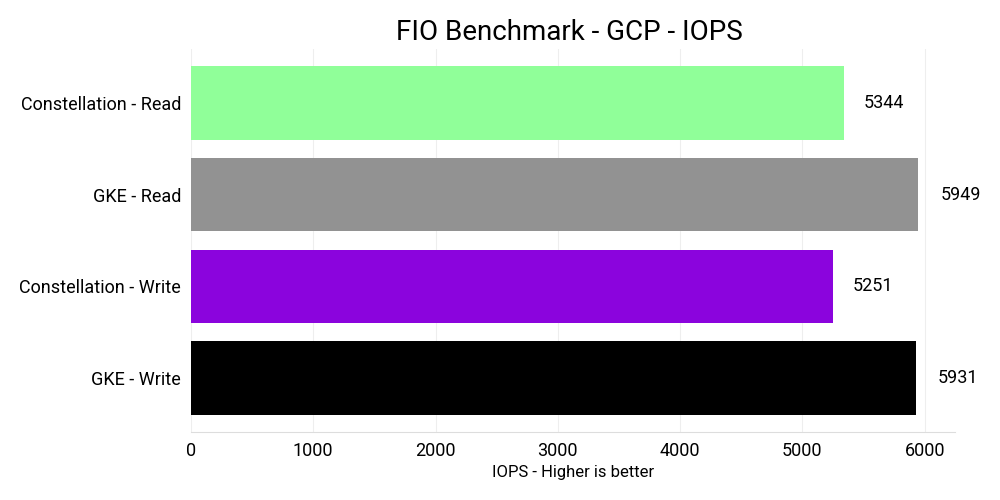
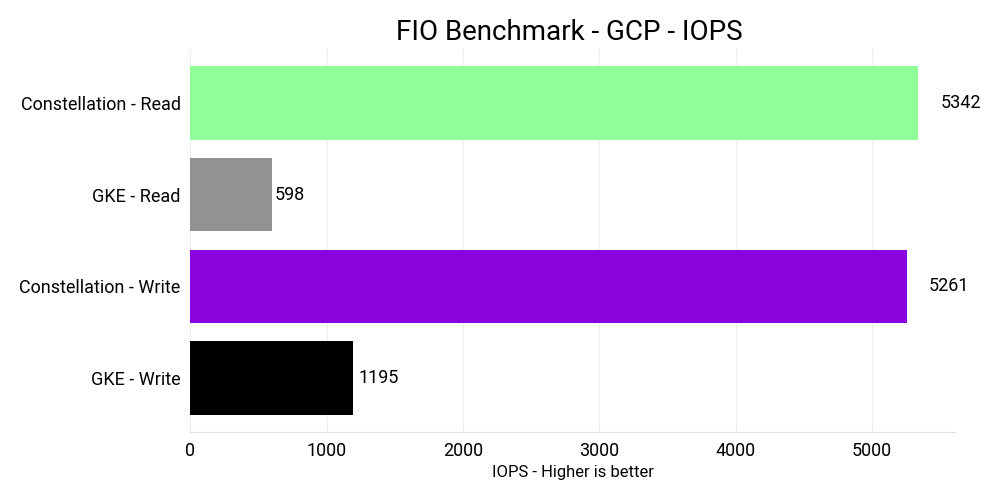
update benchmark docs

diff --git a/docs/docs/overview/performance/io.md b/docs/docs/overview/performance/io.md
@@ -1,15 +1,23 @@
 # I/O performance benchmarks
 
-To assess the overall performance of Constellation, this benchmark evaluates Constellation v2.6.0 in terms of storage I/O using [`fio`](https://fio.readthedocs.io/en/latest/fio_doc.html) and network performance using the [Kubernetes Network Benchmark](https://github.com/InfraBuilder/k8s-bench-suite#knb--kubernetes-network-be).
+To assess the overall performance of Constellation, this benchmark evaluates Constellation v2.14.0 in terms of storage I/O using [`fio`](https://fio.readthedocs.io/en/latest/fio_doc.html) and network performance using the [Kubernetes Network Benchmark](https://github.com/InfraBuilder/k8s-bench-suite#knb--kubernetes-network-be).
 
-This benchmark tested Constellation on Azure and GCP and compared the results against the managed Kubernetes offerings AKS and GKE.
+This benchmark tested Constellation on AWS, Azure, and GCP and compared the results against the managed Kubernetes offerings EKS, AKS, and GKE.
 
 ## Configurations
 
 ### Constellation
 
-The benchmark was conducted with Constellation v2.6.0, Kubernetes v1.25.7, and Cilium v1.12.
+The benchmark was conducted with Constellation v2.14.0, Kubernetes v1.27.8, and Cilium 1.15-pre with our custom [node-to-node strict mode](https://github.com/edgelesssys/constellation/pull/2462).
 It ran on the following infrastructure configurations.
+
+Constellation on AWS:
+
+- Nodes: 3 (1 Control-plane, 2 Worker)
+- Machines: `m6a.xlarge`: 3rd Generation AMD EPYC 7763v (Milan) processor with 4 Cores, 16 GiB memory
+- CVM: `true`
+- Region: `us-east-2`
+- Zone: `us-east-2a`
 
 Constellation on Azure:
 
@@ -26,12 +34,25 @@ Constellation on GCP:
 - CVM: `true`
 - Zone: `europe-west3-b`
 
+### EKS
+
+On EKS, the benchmark used Kubernetes `v1.27.8` and `AL2_x86_64` nodes with version `1.27.7-20231201`.
+AKS ran with the [`Amazon VPC Container Network Interface (CNI)`](https://github.com/aws/amazon-vpc-cni-k8s) CNI and the [default CSI driver](https://docs.aws.amazon.com/de_de/eks/latest/userguide/ebs-csi.html) for Azure Disk.
+
+The following infrastructure configuration was used:
+
+- Nodes: 2 (2 Worker)
+- Machines: `m6a.xlarge`: 3rd Generation AMD EPYC 7763v (Milan) processor with 4 Cores, 16 GiB memory
+- CVM: `false`
+- Region: `us-east-2`
+- Zone: `us-east-2a`
+
 ### AKS
 
 On AKS, the benchmark used Kubernetes `v1.24.9` and nodes with version `AKSUbuntu-1804gen2containerd-2023.02.15`.
 AKS ran with the [`kubenet`](https://learn.microsoft.com/en-us/azure/aks/concepts-network#kubenet-basic-networking) CNI and the [default CSI driver](https://learn.microsoft.com/en-us/azure/aks/azure-disk-csi) for Azure Disk.
 
-The following infrastructure configurations was used:
+The following infrastructure configuration was used:
 
 - Nodes: 2 (2 Worker)
 - Machines: `D4as_v5`: 3rd Generation AMD EPYC 7763v (Milan) processor with 4 Cores, 16 GiB memory
@@ -41,15 +62,16 @@ The following infrastructure configurations was used:
 
 ### GKE
 
-On GKE, the benchmark used Kubernetes `v1.24.9` and nodes with version `1.24.9-gke.3200`.
+On GKE, the benchmark used Kubernetes `v1.27.3` and nodes with version `1.27.3-gke.100`.
 GKE ran with the [`kubenet`](https://cloud.google.com/kubernetes-engine/docs/concepts/network-overview) CNI and the [default CSI driver](https://cloud.google.com/kubernetes-engine/docs/how-to/persistent-volumes/gce-pd-csi-driver) for Compute Engine persistent disk.
 
-The following infrastructure configurations was used:
+The following infrastructure configuration was used:
 
 - Nodes: 2 (2 Worker)
 - Machines: `n2d-standard-4` 2nd Generation AMD EPYC (Rome) processor with 4 Cores, 16 GiB of memory
 - CVM: `false`
 - Zone: `europe-west3-b`
+
 
 ## Results
 
@@ -58,9 +80,10 @@ The following infrastructure configurations was used:
 This section gives a thorough analysis of the network performance of Constellation, specifically focusing on measuring TCP and UDP bandwidth.
 The benchmark measured the bandwidth of pod-to-pod and pod-to-service connections between two different nodes using [`iperf`](https://iperf.fr/).
 
+EKS and Constellation on AWS had a maximum network bandwidth of [12.5 Gbps](https://docs.aws.amazon.com/AWSEC2/latest/UserGuide/general-purpose-instances.html#general-purpose-network-performance).
 GKE and Constellation on GCP had a maximum network bandwidth of [10 Gbps](https://cloud.google.com/compute/docs/general-purpose-machines#n2d_machineshttps://cloud.google.com/compute/docs/general-purpose-machines#n2d_machines).
-AKS with `Standard_D4as_v5` machines a maximum network bandwidth of [12.5 Gbps](https://learn.microsoft.com/en-us/azure/virtual-machines/dasv5-dadsv5-series#dasv5-series).
-The Confidential VM equivalent `Standard_DC4as_v5` currently  has a network bandwidth of [1.25 Gbps](https://learn.microsoft.com/en-us/azure/virtual-machines/dcasv5-dcadsv5-series#dcasv5-series-products).
+AKS with `Standard_D4as_v5` machines had a maximum network bandwidth of [12.5 Gbps](https://learn.microsoft.com/en-us/azure/virtual-machines/dasv5-dadsv5-series#dasv5-series).
+The Confidential VM equivalent `Standard_DC4as_v5` currently has a network bandwidth of [1.25 Gbps](https://learn.microsoft.com/en-us/azure/virtual-machines/dcasv5-dcadsv5-series#dcasv5-series-products).
 Therefore, to make the test comparable, both AKS and Constellation on Azure were running with `Standard_DC4as_v5` machines and 1.25 Gbps bandwidth.
 
 Constellation on Azure and AKS used an MTU of 1500.
@@ -85,6 +108,9 @@ flowchart LR
     end
     Client ==>|traffic| Server
 ```
+The results for "Pod-to-Pod" on AWS are as follows:
+
+![Network Pod2Pod AWS benchmark graph](../../_media/benchmark_net_p2p_aws.png)
 
 The results for "Pod-to-Pod" on Azure are as follows:
 
@@ -109,6 +135,10 @@ flowchart LR
     Service ==>|traffic| Server
 ```
 
+The results for "Pod-to-Pod" on AWS are as follows:
+
+![Network Pod2SVC AWS benchmark graph](../../_media/benchmark_net_p2svc_aws.png)
+
 The results for "Pod-to-Pod" on Azure are as follows:
 
 ![Network Pod2SVC Azure benchmark graph](../../_media/benchmark_net_p2svc_azure.png)
@@ -117,16 +147,24 @@ The results for "Pod-to-Pod" on GCP are as follows:
 
 ![Network Pod2SVC GCP benchmark graph](../../_media/benchmark_net_p2svc_gcp.png)
 
-In our recent comparison of Constellation on GCP with GKE, Constellation has 58% less TCP bandwidth. However, UDP bandwidth was slightly better with Constellation, thanks to its higher MTU.
+In our recent comparison of Constellation on GCP with GKE, Constellation has 48% less TCP bandwidth. However, UDP bandwidth was slightly better with Constellation, thanks to its higher MTU.
 
 Similarly, when comparing Constellation on Azure with AKS using CVMs, Constellation achieved approximately 10% less TCP and 40% less UDP bandwidth.
 
+On AWS, Constellation has 96% less TCP bandwidth and 97% less UDP bandwidth compared to EKS.
+
 ### Storage I/O
 
-Azure and GCP offer persistent storage for their Kubernetes services AKS and GKE via the Container Storage Interface (CSI). CSI storage in Kubernetes is available via `PersistentVolumes` (PV) and consumed via `PersistentVolumeClaims` (PVC).
-Upon requesting persistent storage through a PVC, GKE and AKS will provision a PV as defined by a default [storage class](https://kubernetes.io/docs/concepts/storage/storage-classes/).
-Constellation provides persistent storage on Azure and GCP [that's encrypted on the CSI layer](../../architecture/encrypted-storage.md).
+AWS, Azure, and GCP offer persistent storage for their Kubernetes services EKS, AKS, and GKE via the Container Storage Interface (CSI). CSI storage in Kubernetes is available via `PersistentVolumes` (PV) and consumed via `PersistentVolumeClaims` (PVC).
+Upon requesting persistent storage through a PVC, EKS, AKS, and GKE will provision a PV as defined by a default [storage class](https://kubernetes.io/docs/concepts/storage/storage-classes/).
+Constellation provides persistent storage on AWS, Azure, and GCP [that's encrypted on the CSI layer](../../architecture/encrypted-storage.md).
 Similarly, upon a PVC request, Constellation will provision a PV via a default storage class.
+
+For Constellation on AWS and EKS, the benchmark ran with solid state drive (SSD) volumes of type `gp3` (https://docs.aws.amazon.com/AWSEC2/latest/UserGuide/ebs-volume-types.html) of 400 GiB size.
+The gp3 volumes provide the following maximum performance:
+
+- 16,000 IOPS
+- 1000 MB/s throughput
 
 For Constellation on Azure and AKS, the benchmark ran with Azure Disk storage [Standard SSD](https://learn.microsoft.com/en-us/azure/virtual-machines/disks-types#standard-ssds) of 400 GiB size.
 The [DC4as machine type](https://learn.microsoft.com/en-us/azure/virtual-machines/dasv5-dadsv5-series#dasv5-series) with four cores provides the following maximum performance:
@@ -171,6 +209,10 @@ The following `fio` settings were used:
 
 For more details, see the [`fio` test configuration](https://github.com/edgelesssys/constellation/blob/main/.github/actions/e2e_benchmark/fio.ini).
 
+The results for IOPS on AWS are as follows:
+
+![I/O IOPS AWS benchmark graph](../../_media/benchmark_fio_aws_iops.png)
+
 The results for IOPS on Azure are as follows:
 
 ![I/O IOPS Azure benchmark graph](../../_media/benchmark_fio_azure_iops.png)
@@ -178,6 +220,10 @@ The results for IOPS on Azure are as follows:
 The results for IOPS on GCP are as follows:
 
 ![I/O IOPS GCP benchmark graph](../../_media/benchmark_fio_gcp_iops.png)
+
+The results for bandwidth on AWS are as follows:
+
+![I/O bandwidth AWS benchmark graph](../../_media/benchmark_fio_aws_bw.png)
 
 The results for bandwidth on Azure are as follows:
 
@@ -190,10 +236,11 @@ The results for bandwidth on GCP are as follows:
 On GCP, the results exceed the maximum performance guarantees of the chosen disk type. There are two possible explanations for this. The first is that there may be cloud caching in place that isn't configurable. Alternatively, the underlying provisioned disk size may be larger than what was requested, resulting in higher performance boundaries.
 
 When comparing Constellation on GCP with GKE, Constellation has similar bandwidth but about 10% less IOPS performance. On Azure, Constellation has similar IOPS performance compared to AKS, where both likely hit the maximum storage performance. However, Constellation has approximately 15% less read and write bandwidth.
+On AWS, Constellation has similar IOPS performance compared to EKS, where both likely hit the maximum storage performance. However, Constellation has approximately 18% less read and 31% less write bandwidth.
 
 ## Conclusion
 
-Despite the added [security benefits](../security-benefits.md) that Constellation provides, it only incurs a slight performance overhead when compared to managed Kubernetes offerings such as AKS and GKE. In most compute benchmarks, Constellation is on par with it's alternatives.
+Despite the added [security benefits](../security-benefits.md) that Constellation provides, it only incurs a slight performance overhead when compared to managed Kubernetes offerings such as EKS, AKS, and GKE. In most compute benchmarks, Constellation is on par with its alternatives.
 While it may be slightly slower in certain I/O scenarios due to network and storage encryption, there is ongoing work to reduce this overhead to single digits.
 
 For instance, storage encryption only adds between 10% to 15% overhead in terms of bandwidth and IOPS.
